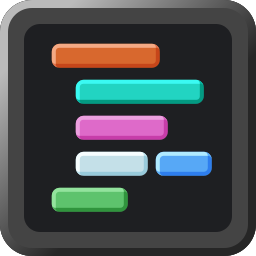
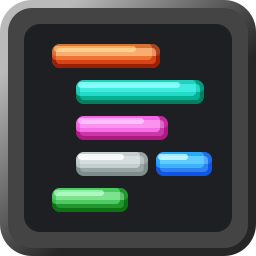
Update build (#8)
* Add ignore rule for node_nodules directory

* Update icon to a more vibrant version

* Add jsonc parser for use in build script

* Minor changes to themes

- Changed the order of some semantic rules
- Removed trailing commas

* Added new build and prepublish script

* Update changelog.

* Fixed error in publish script initiation

---------

diff --git a/scripts/build.js b/scripts/build.js
@@ -1,0 +1,74 @@
+const fs = require('fs');
+const path = require('path');
+const jsonc = require('jsonc-parser');
+
+// Determine source and destination directories
+const srcDir = path.dirname(__dirname);
+const THEMES_DIR = path.join(srcDir, 'themes');
+const DIST_DIR = path.join(srcDir, 'dist', 'jetbrains-dark');
+const DIST_THEMES = path.join(DIST_DIR, 'themes');
+
+console.log('Running build script');
+
+// Ensure destination directories exist
+fs.mkdirSync(DIST_THEMES, { recursive: true });
+
+// Metadata files to copy
+const REQUIRED_FILES = [
+  'README.md',
+  'CHANGELOG.md',
+  'icon.png',
+  'package.json',
+  'LICENSE.txt',
+];
+
+// Copy metadata files
+for (const file of REQUIRED_FILES) {
+  const srcPath = path.join(srcDir, file);
+  const destPath = path.join(DIST_DIR, file);
+  if (!fs.existsSync(srcDir)) {
+    console.error(`Error: File ${file} does not exist.`);
+    process.exit(1);
+  }
+  fs.cpSync(srcPath, destPath);
+}
+
+// Theme files to process
+const THEMES = [
+  'jetbrains-dark.json',
+  'jetbrains-dark-syntax.json',
+  'jetbrains-dark-vibrant.json',
+];
+
+for (const themeFilename of THEMES) {
+  const themeFilepath = fs.readFileSync(path.join(THEMES_DIR, themeFilename), {
+    encoding: 'utf8',
+  });
+
+  let themeJson;
+  try {
+    let errorsList = [];
+    themeJson = jsonc.parse(themeFilepath, errorsList);
+
+    // Reduce scope arrays that contain only one scope
+    // to a string if theme contains a tokenColors array
+    if (Array.isArray(themeJson.tokenColors)) {
+      for (const rule of themeJson.tokenColors) {
+        if (Array.isArray(rule.scope)) {
+          if (rule.scope.length === 1) {
+            rule.scope = rule.scope[0];
+          }
+        }
+      }
+    }
+  } catch (err) {
+    console.error(`Failed to parse ${themeFilename}:`, err.message);
+    throw err;
+  }
+
+  const minified = JSON.stringify(themeJson);
+  const outPath = path.join(DIST_THEMES, themeFilename);
+  fs.writeFileSync(outPath, minified, 'utf8');
+}
+
+console.log('Build successful.');

diff --git a/scripts/prepublish.js b/scripts/prepublish.js
@@ -1,0 +1,42 @@
+const fs = require('fs');
+const path = require('path');
+
+let srcDir = path.dirname(__dirname);
+const changelogFilePath = path.join(srcDir, 'CHANGELOG.md');
+
+console.log('Running prepublish checks.');
+
+let changelogFile;
+try {
+  changelogFile = fs.readFileSync(changelogFilePath, { encoding: 'utf8' });
+} catch (err) {
+  console.error('Error: Failed to read changelog file');
+  process.exit(1);
+}
+
+let versionHeadings = Array.from(
+  changelogFile.matchAll(/## (\d+\.\d+\.\d+)/g),
+  match => match[1]
+);
+
+// Get Version number
+const packageJson = fs.readFileSync(path.join(srcDir, 'package.json'), {
+  encoding: 'utf8',
+});
+
+// Check if changelog contains an entry for the current version
+const package = JSON.parse(packageJson);
+
+if (package.version !== versionHeadings[0]) {
+  console.error(
+    [
+      'Error: Changelog version mismatch.',
+      `- package.json version: ${package.version}`,
+      `- changelog version: ${versionHeadings[0]}`,
+      'Update the changelog before publishing!',
+    ].join('\n')
+  );
+  process.exit(1);
+}
+
+console.log('Prepublish checks successful');

diff --git a/CHANGELOG.md b/CHANGELOG.md
@@ -1,11 +1,28 @@
 # Changelog
 
+## 0.6.2
+
+### Fixed
+- Fixed error in publish script initiation.
+
+## 0.6.1
+
+### Added
+- Added prepublish script.
+- Added new build script.
+
+### Fixed
+- Removed some trailing commas in the theme files.
+
+### Changed
+- Changed marketplace icon to a more vibrant version.
+
 ## 0.6.0
 
 ### Added
 - Added syntax highlighting rules for Java.
 
-### Fix
+### Fixed
 - Fixed line numbers in gutter being too bright for inactive lines.
 
 ### Changed
